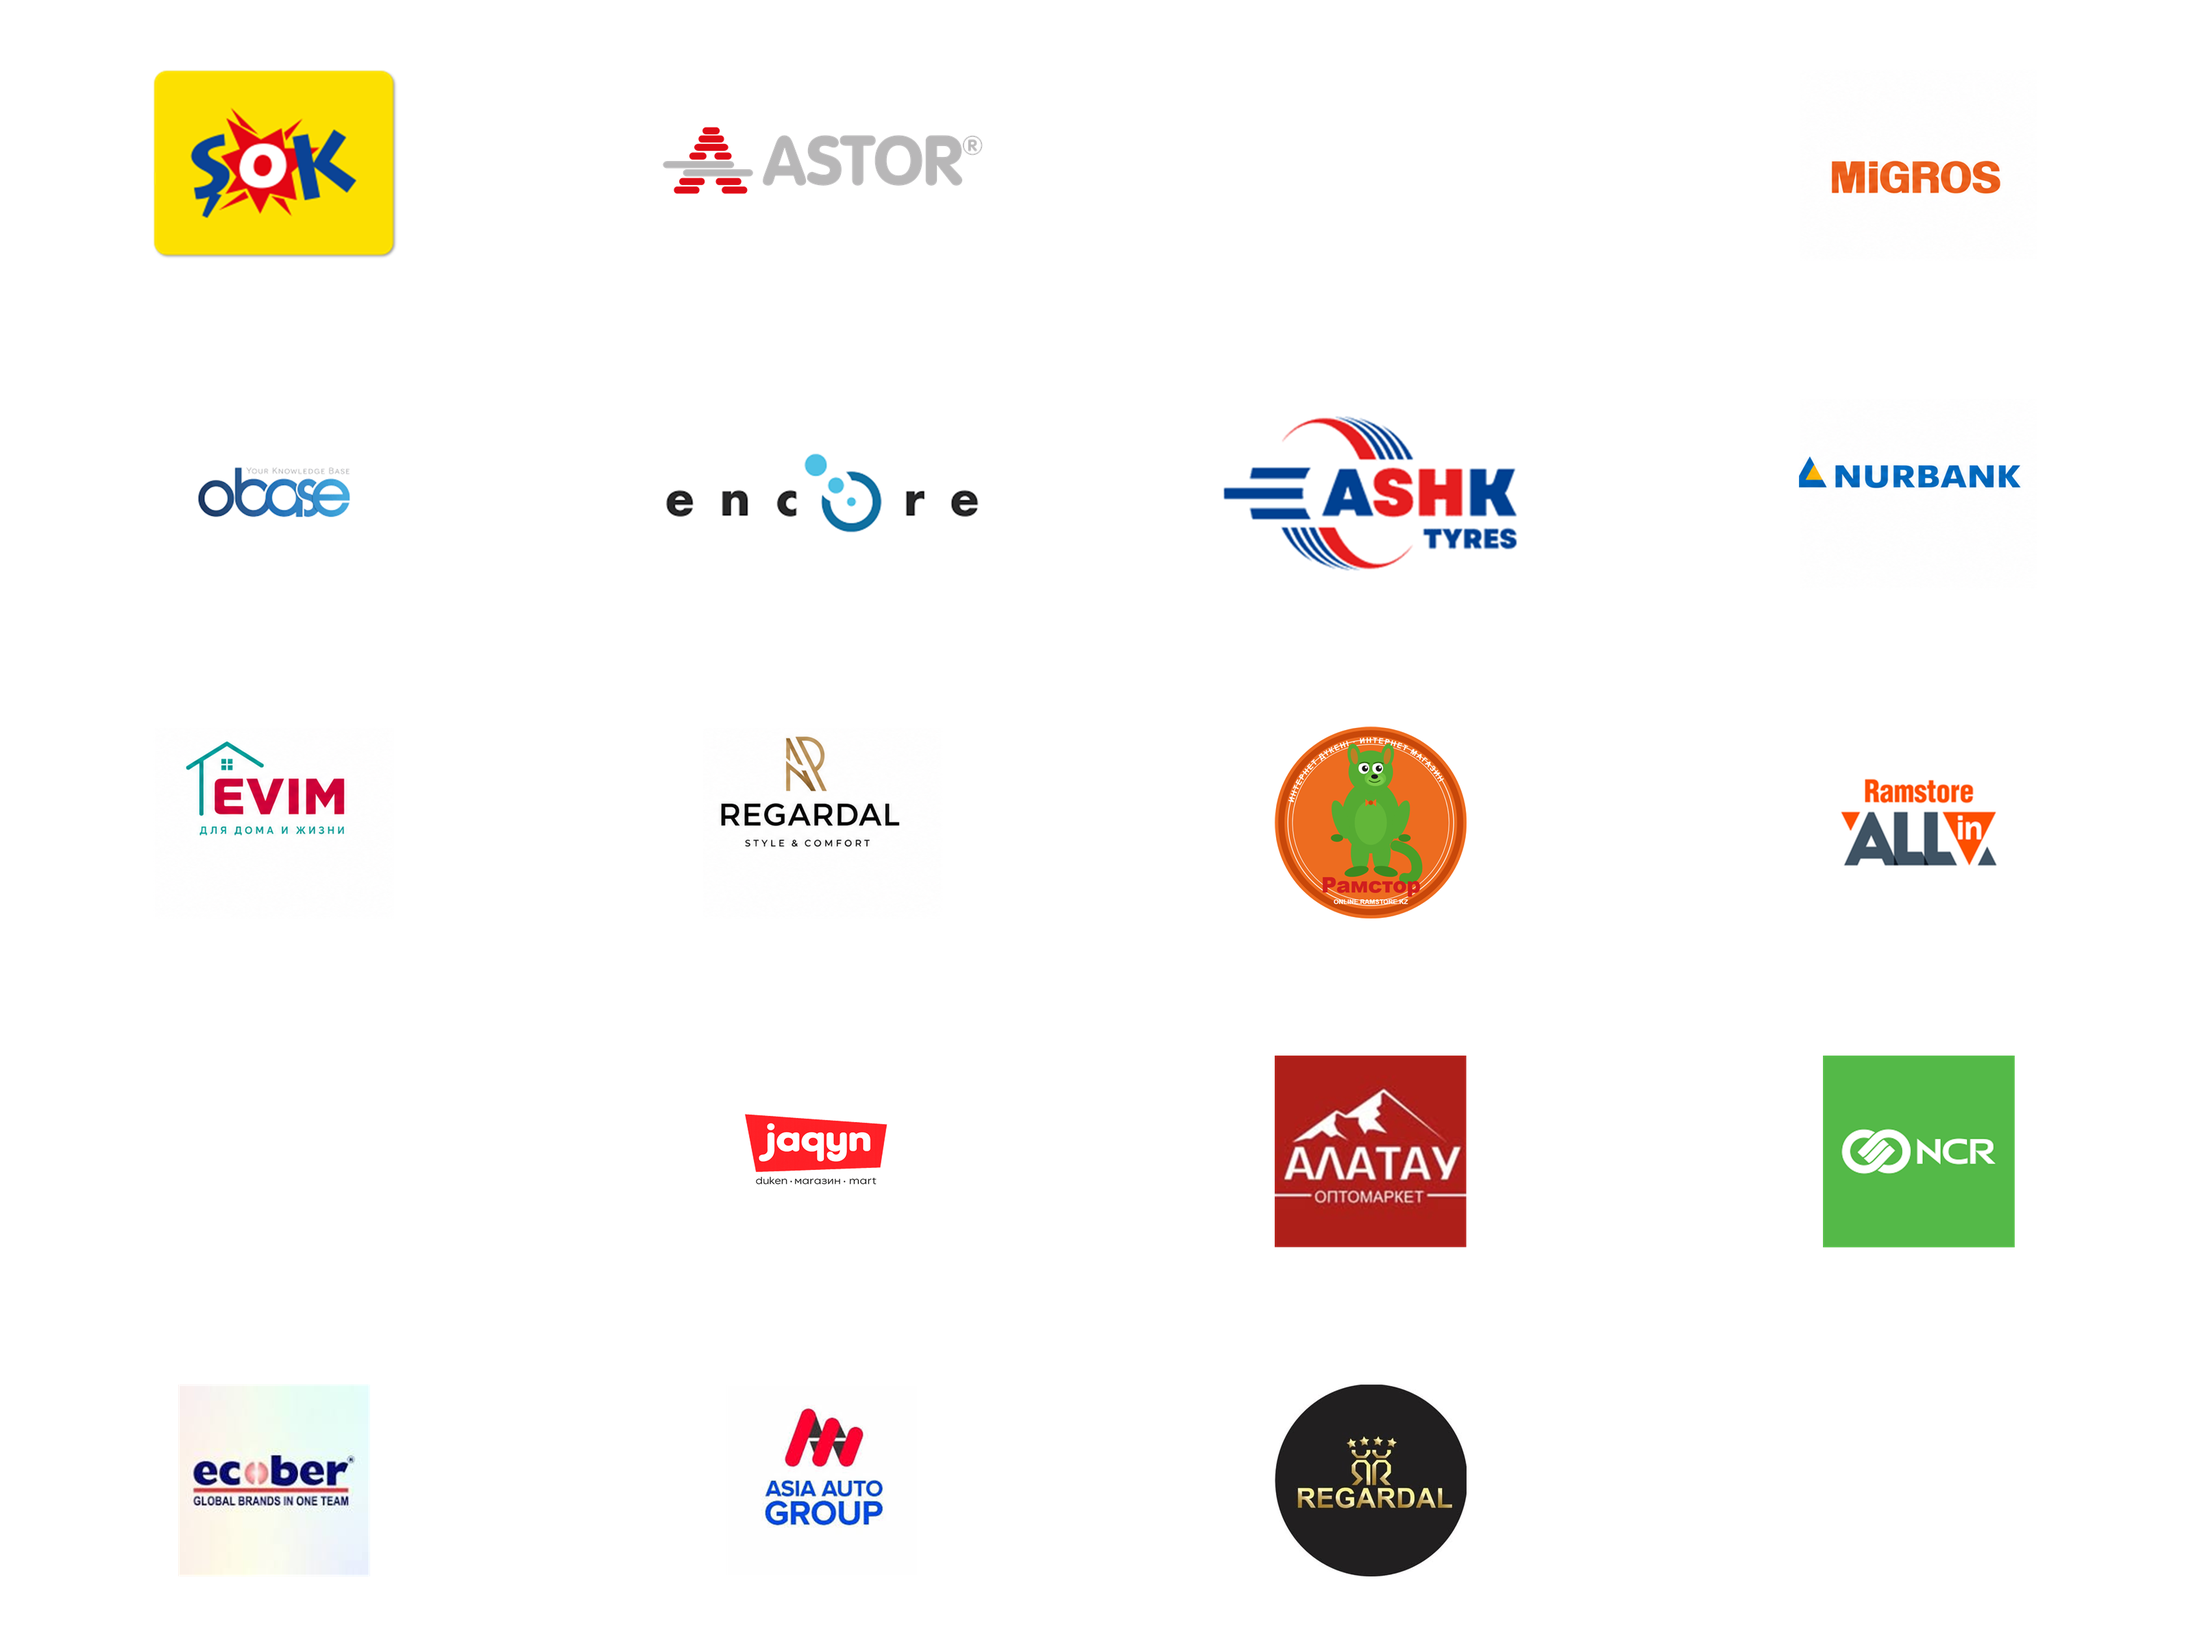
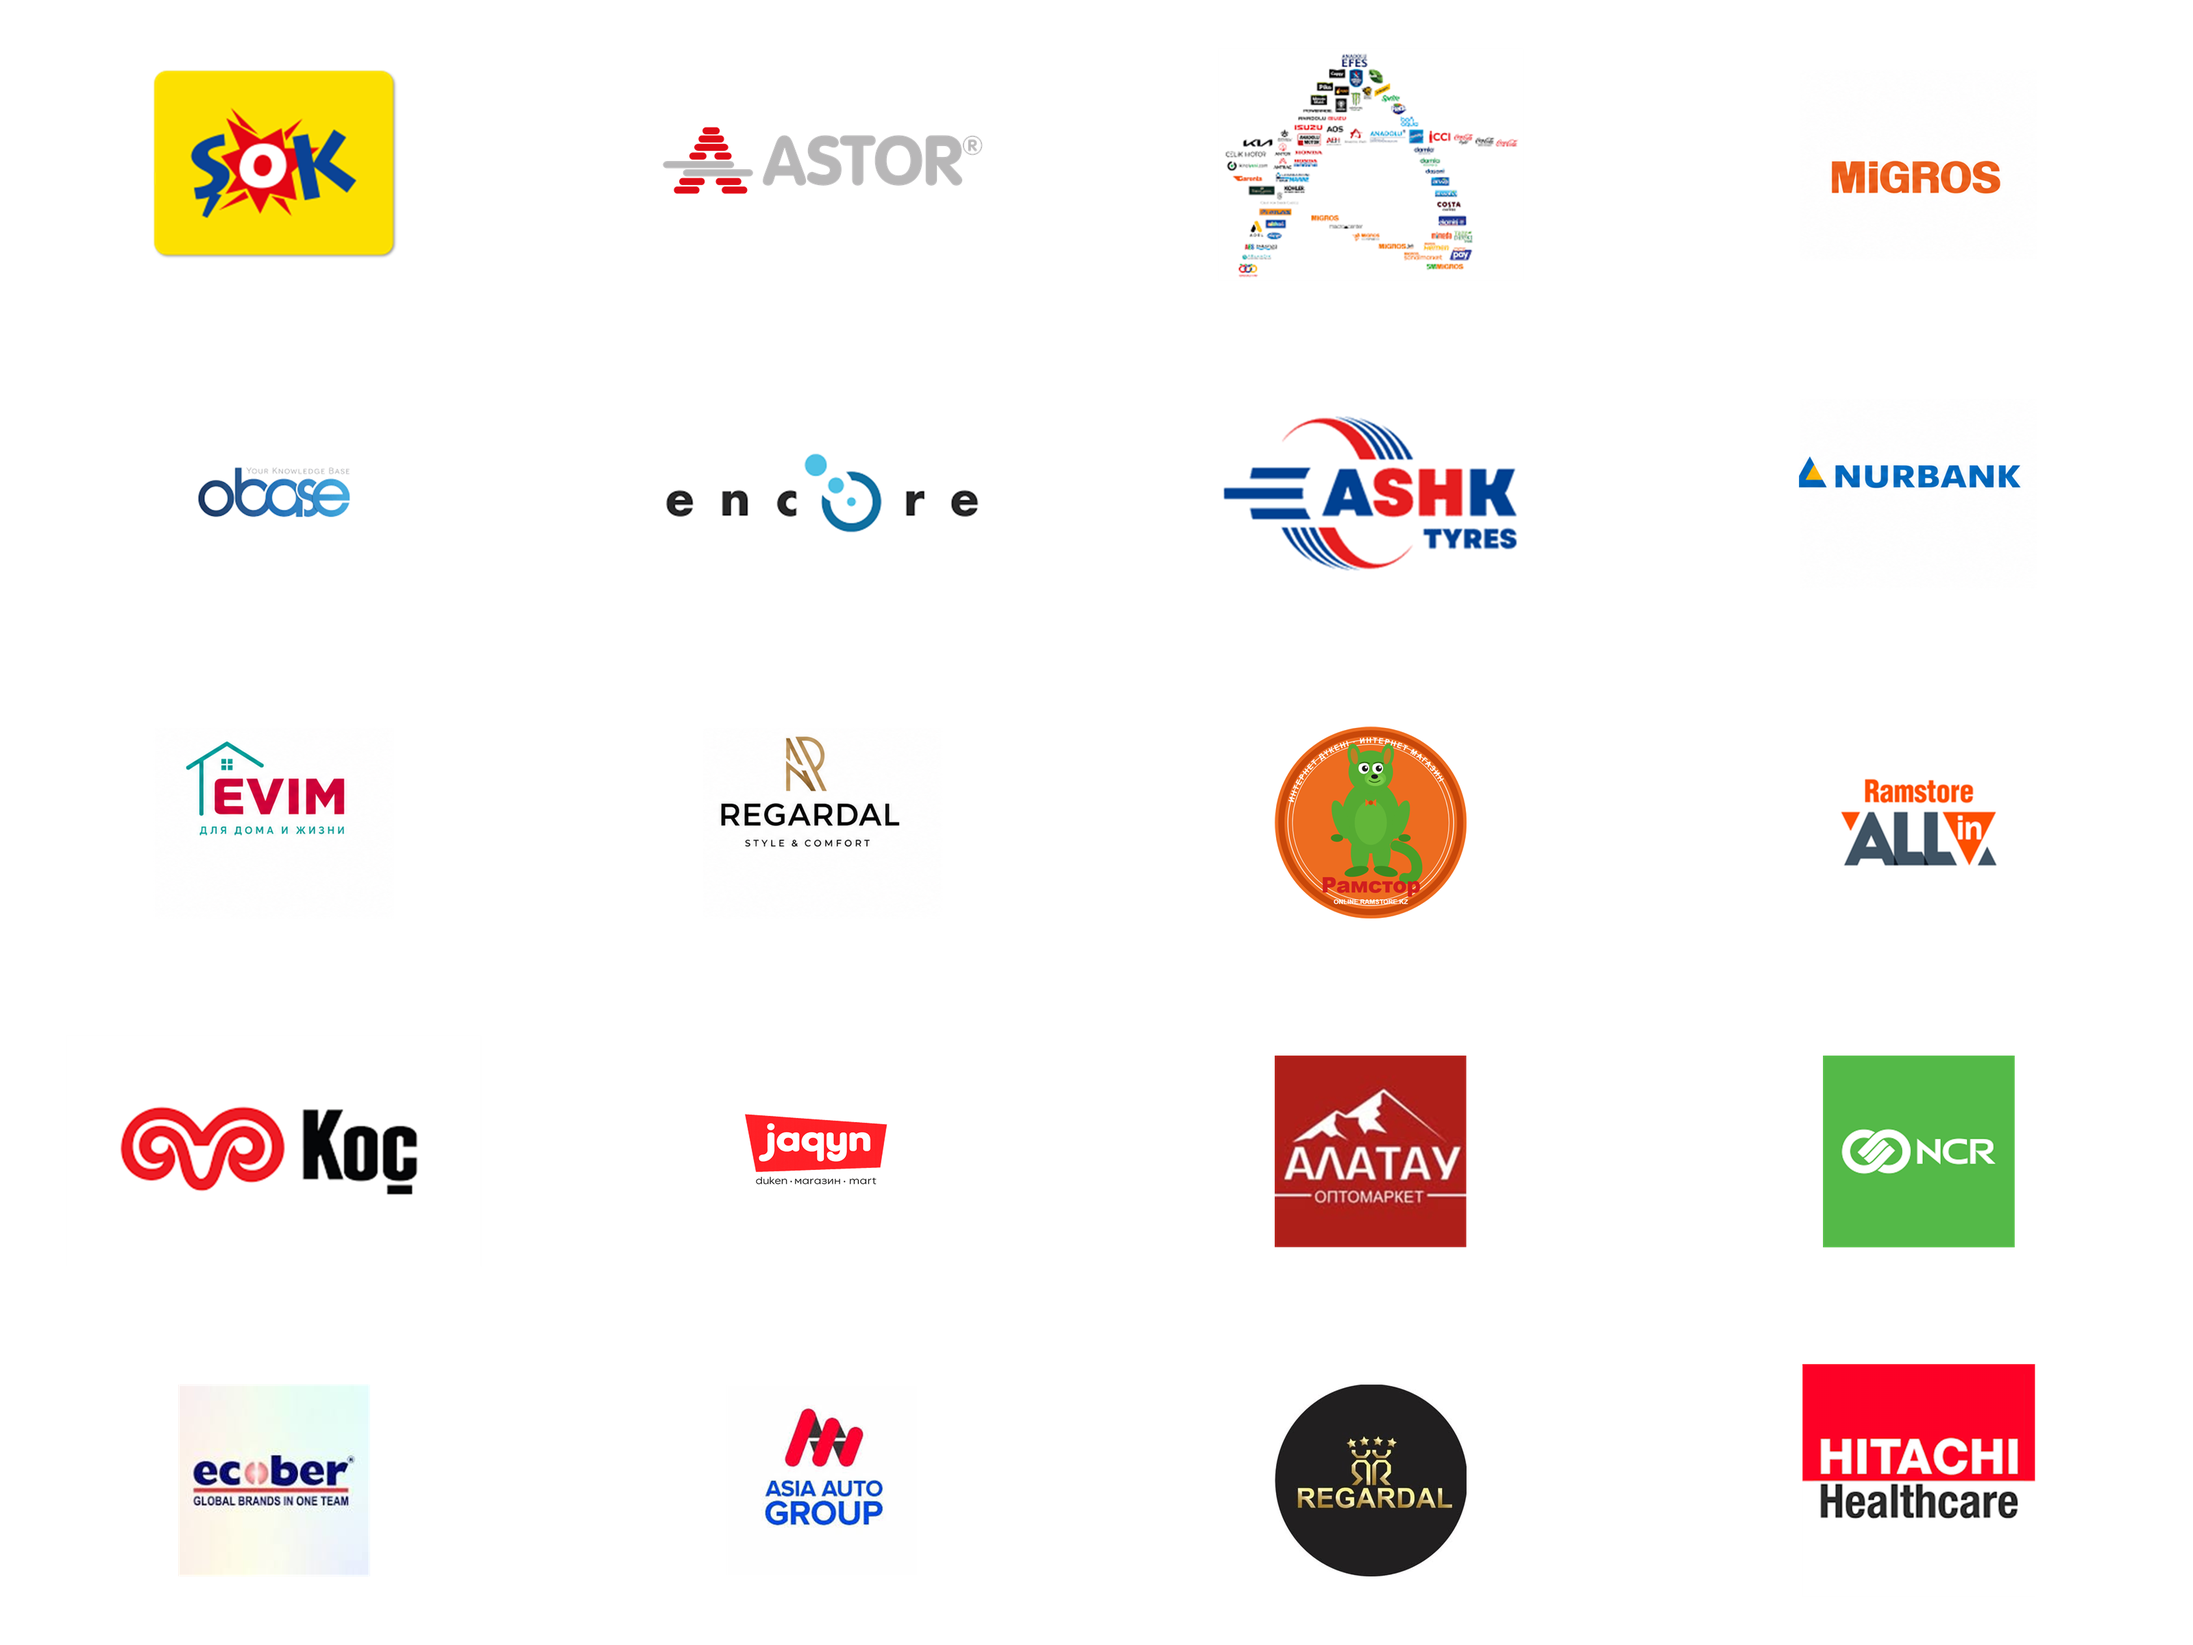
Add ag/koc/hitach to sss.png empty slots; add 4 new partner cards (AG, Akinsoft, Koç, Hitachi)
- sss.png: Row0Col2=Anadolu Group, Row3Col0=Koç Holding, Row4Col3=Hitachi
- New partner cards: Anadolu Group, Akinsoft, Koç Holding, Hitachi with proper links

Changed region(s): [[0.8125, 0.8125, 0.9375, 0.9375], [0.5625, 0.0312, 0.6875, 0.1562], [0.0312, 0.6562, 0.1875, 0.7188]]

diff --git a/meshitkhan.html b/meshitkhan.html
@@ -608,6 +608,46 @@
         <a href="#" class="mt-auto inline-flex items-center gap-1 text-xs font-semibold text-blue-600 border border-blue-200 px-4 py-2 rounded-lg hover:bg-blue-50 transition-all" data-i18n="pro.btn">толығырақ →</a>
       </div>
 
+      <!-- Anadolu Group -->
+      <div class="mk-card p-5 flex flex-col items-center text-center reveal hover:-translate-y-1 transition-all">
+        <div style="height:72px;display:flex;align-items:center;justify-content:center;margin-bottom:10px;">
+          <img src="imeges/ag.png" alt="Anadolu Group" style="max-height:60px;max-width:160px;object-fit:contain;" loading="lazy"/>
+        </div>
+        <div class="font-bold text-gray-900 text-sm mb-1">Anadolu Group</div>
+        <div class="text-xs text-gray-400 mb-4 leading-snug">Türkiye · Holding</div>
+        <a href="https://www.anadolugroup.com/" target="_blank" rel="noopener" class="mt-auto inline-flex items-center gap-1 text-xs font-semibold text-blue-600 border border-blue-200 px-4 py-2 rounded-lg hover:bg-blue-50 transition-all" data-i18n="pro.btn">толығырақ →</a>
+      </div>
+
+      <!-- Akinsoft -->
+      <div class="mk-card p-5 flex flex-col items-center text-center reveal hover:-translate-y-1 transition-all">
+        <div style="height:72px;display:flex;align-items:center;justify-content:center;margin-bottom:10px;">
+          <img src="imeges/as.png" alt="Akinsoft" style="max-height:60px;max-width:160px;object-fit:contain;" loading="lazy"/>
+        </div>
+        <div class="font-bold text-gray-900 text-sm mb-1">Akinsoft</div>
+        <div class="text-xs text-gray-400 mb-4 leading-snug">Türkiye · ERP &amp; Yazılım</div>
+        <a href="https://www.akinsoft.com.tr/akinsoft.com.tr" target="_blank" rel="noopener" class="mt-auto inline-flex items-center gap-1 text-xs font-semibold text-blue-600 border border-blue-200 px-4 py-2 rounded-lg hover:bg-blue-50 transition-all" data-i18n="pro.btn">толығырақ →</a>
+      </div>
+
+      <!-- Koç Holding -->
+      <div class="mk-card p-5 flex flex-col items-center text-center reveal hover:-translate-y-1 transition-all">
+        <div style="height:72px;display:flex;align-items:center;justify-content:center;margin-bottom:10px;">
+          <img src="imeges/koc.png" alt="Koç Holding" style="max-height:56px;max-width:160px;object-fit:contain;" loading="lazy"/>
+        </div>
+        <div class="font-bold text-gray-900 text-sm mb-1">Koç Holding</div>
+        <div class="text-xs text-gray-400 mb-4 leading-snug">Türkiye · Holding</div>
+        <a href="https://www.koc.com.tr/" target="_blank" rel="noopener" class="mt-auto inline-flex items-center gap-1 text-xs font-semibold text-blue-600 border border-blue-200 px-4 py-2 rounded-lg hover:bg-blue-50 transition-all" data-i18n="pro.btn">толығырақ →</a>
+      </div>
+
+      <!-- Hitachi -->
+      <div class="mk-card p-5 flex flex-col items-center text-center reveal hover:-translate-y-1 transition-all">
+        <div style="height:72px;display:flex;align-items:center;justify-content:center;margin-bottom:10px;">
+          <img src="imeges/hitach.png" alt="Hitachi" style="max-height:60px;max-width:160px;object-fit:contain;" loading="lazy"/>
+        </div>
+        <div class="font-bold text-gray-900 text-sm mb-1">Hitachi</div>
+        <div class="text-xs text-gray-400 mb-4 leading-snug">Global · Technology &amp; Innovation</div>
+        <a href="https://www.facebook.com/sofia.whole.breast.imaging/" target="_blank" rel="noopener" class="mt-auto inline-flex items-center gap-1 text-xs font-semibold text-blue-600 border border-blue-200 px-4 py-2 rounded-lg hover:bg-blue-50 transition-all" data-i18n="pro.btn">толығырақ →</a>
+      </div>
+
     </div>
   </div>
 </section>
